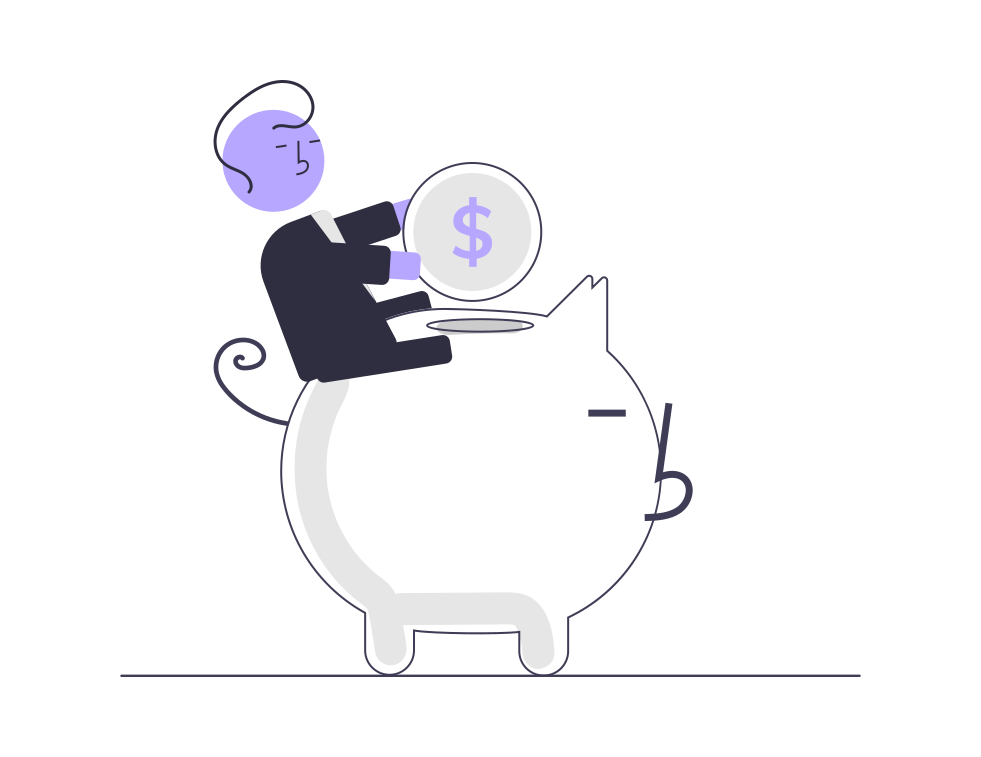
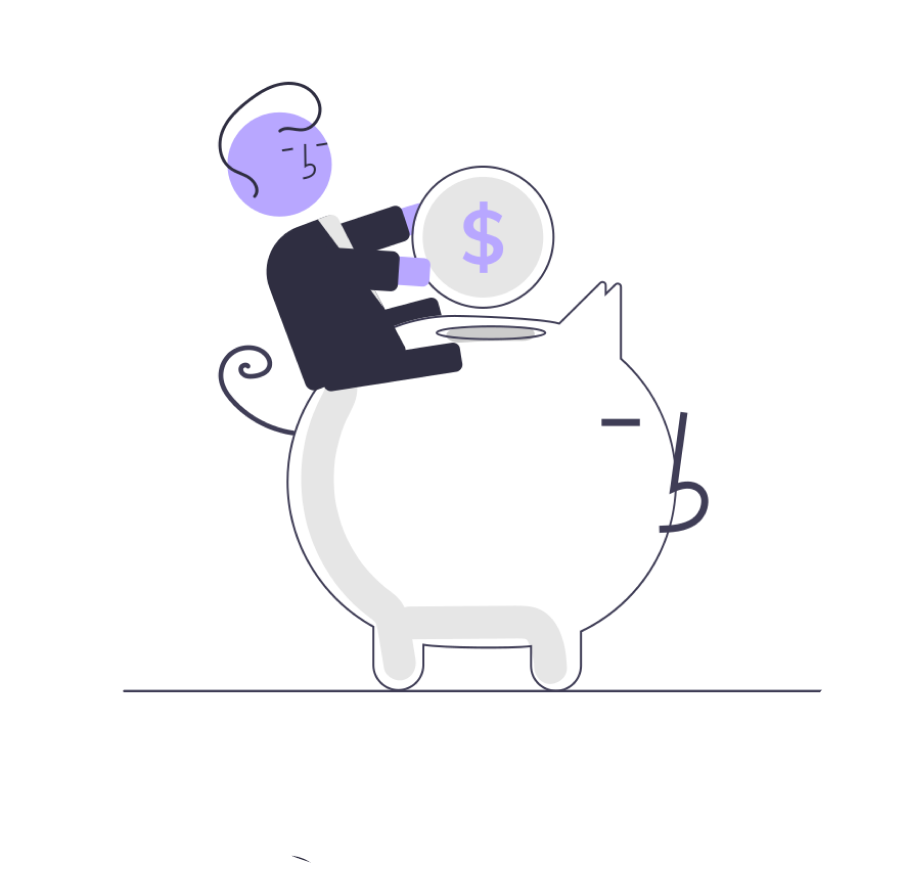
added introduction page version 2.0

diff --git a/lib/app/introduction/introduction_page.dart b/lib/app/introduction/introduction_page.dart
@@ -12,8 +12,8 @@ class IntroductionPage extends ConsumerWidget {
   PageDecoration _buildPageDecoration() {
     const boxDecoration = const BoxDecoration(
       gradient: LinearGradient(
-          begin: Alignment.topCenter,
-          end: Alignment.bottomCenter,
+          begin: Alignment.topLeft,
+          end: Alignment.bottomRight,
           colors: [
             Color(0xffB8A7FF),
             Color(0xff2196F3),
@@ -36,9 +36,7 @@ class IntroductionPage extends ConsumerWidget {
   }
 
   Widget _buildImage(String assetName, [double height = 300]) {
-    return Container(
-        child: Image.asset('images/$assetName', height: height)
-    );
+    return Container(child: Image.asset('images/$assetName', height: height));
   }
 
   @override
@@ -61,58 +59,109 @@ class IntroductionPage extends ConsumerWidget {
               pages: [
                 PageViewModel(
                     titleWidget: Text(
-                      "Добро пожаловать в\nLend Land!",
+                      "Добро пожаловать в\nLendLand!",
                       textAlign: TextAlign.center,
                       style: TextStyle(color: Colors.white, fontSize: 32),
                     ),
                     bodyWidget: Text(
-                      "Ты вступаешь в ряды настоящих легионеров, но перед этим тебе нужно неплохо так подлутаться",
+                      "Вы отваживаетесь сделать шаг в мир инвестиций - мир, полный перспективных идей, новых возможностей и весомого профита",
                       textAlign: TextAlign.center,
                       style: TextStyle(color: Colors.white, fontSize: 18),
                     ),
                     image: _buildImage('explore_circled.png'),
                     decoration: _buildPageDecoration()),
                 PageViewModel(
-                    title: "Выполняй миссии от нашего легиона",
-                    body:
-                    "Тебе будут назначаться задания, с которыми можешь справиться только ты",
-                    image: _buildImage('wallet.png'),
-                    decoration: _buildPageDecoration()),
-                PageViewModel(
-                    title: "Выполняй миссии от нашего легиона",
-                    body:
-                    "Тебе будут назначаться задания, с которыми можешь справиться только ты",
+                    titleWidget: Text(
+                      "Вы - инвестор?",
+                      textAlign: TextAlign.center,
+                      style: TextStyle(color: Colors.white, fontSize: 32),
+                    ),
+                    bodyWidget: Text(
+                      "Многим бизнесам нужно финансирование для старта. инвестируйте в них, позвольте вашим деньгам работать на вас",
+                      textAlign: TextAlign.center,
+                      style: TextStyle(color: Colors.white, fontSize: 18),
+                    ),
                     image: _buildImage('savings.png'),
                     decoration: _buildPageDecoration()),
                 PageViewModel(
-                    title: "Выполняй миссии от нашего легиона",
-                    body:
-                        "Тебе будут назначаться задания, с которыми можешь справиться только ты",
-                    image: _buildImage('analyze.png'),
+                    titleWidget: Text(
+                      "Становитесь фигурой бизнеса",
+                      textAlign: TextAlign.center,
+                      style: TextStyle(color: Colors.white, fontSize: 32),
+                    ),
+                    bodyWidget: Text(
+                      "Вы будете финансировать стартапы, бизнесы, проекты. Вы станете полноценным владельцем доли бизнеса",
+                      textAlign: TextAlign.center,
+                      style: TextStyle(color: Colors.white, fontSize: 18),
+                    ),
+                    image: _buildImage('career_ladder.png'),
                     decoration: _buildPageDecoration()),
                 PageViewModel(
-                    title: "Миссия - это злодей. Одолей его!",
-                    body:
-                        "На каждом из этих заданий тебя ждет мини-монстр или баг, ты должен его одолеть!",
-                    image: _buildImage('growth.png'),
+                    titleWidget: Text(
+                      "Оценивайте свои шансы",
+                      textAlign: TextAlign.center,
+                      style: TextStyle(color: Colors.white, fontSize: 32),
+                    ),
+                    bodyWidget: Text(
+                      "Вы будете использовать графики, чарты, цифры, чтобы предсказывать будущее!",
+                      textAlign: TextAlign.center,
+                      style: TextStyle(color: Colors.white, fontSize: 18),
+                    ),
+                    image: _buildImage('metrix.png'),
                     decoration: _buildPageDecoration()),
                 PageViewModel(
-                    title: "Не бойся, ты не один!",
-                    body:
-                        "Для решения задач тебе понадобится помощь твоих товарищей, так что вперед собирай команду!",
-                    image: _buildImage('instant_info.png'),
+                    titleWidget: Text(
+                      "Хотите продвигать свой бизнес?",
+                      textAlign: TextAlign.center,
+                      style: TextStyle(color: Colors.white, fontSize: 32),
+                    ),
+                    bodyWidget: Text(
+                      "Регистрируйте свой магазин, организацию, компанию - познакомьте ваш бизнес с другими",
+                      textAlign: TextAlign.center,
+                      style: TextStyle(color: Colors.white, fontSize: 18),
+                    ),
+                    image: _buildImage('business_shop.png'),
                     decoration: _buildPageDecoration()),
                 PageViewModel(
-                    title: "Доспехи - это твое все",
-                    body:
-                        "Победив монстра, вытащи все, что с него выпало, может пригодится)",
-                    image: _buildImage('plans.png'),
+                    titleWidget: Text(
+                      "Находите инвесторов",
+                      textAlign: TextAlign.center,
+                      style: TextStyle(color: Colors.white, fontSize: 32),
+                    ),
+                    bodyWidget: Text(
+                      "Получайте финансирование от людей, готовых поднимать вашу дефтельность вместе",
+                      textAlign: TextAlign.center,
+                      style: TextStyle(color: Colors.white, fontSize: 18),
+
+                    ),
+                    image: _buildImage('business_deal.png'),
                     decoration: _buildPageDecoration()),
                 PageViewModel(
-                    title: "Победи всех монстров\nи стань легионером!",
-                    body:
-                        "Как только ты получил свои доспехи, только тогда станешь полноценным членом легиона",
-                    image: _buildImage('progress_data.png'),
+                    titleWidget: Text(
+                      "Так выгоднее!",
+                      textAlign: TextAlign.center,
+                      style: TextStyle(color: Colors.white, fontSize: 32),
+                    ),
+                    bodyWidget: Text(
+                      "Вы получаете помощь с заинтересованных людей, принимающие риски. ",
+                      textAlign: TextAlign.center,
+                      style: TextStyle(color: Colors.white, fontSize: 18),
+                    ),
+                    image: _buildImage('discount.png'),
+                    decoration: _buildPageDecoration()),
+                PageViewModel(
+                    titleWidget: Text(
+                      "Есть идея, есть деньги - за дело!",
+                      textAlign: TextAlign.center,
+                      style: TextStyle(color: Colors.white, fontSize: 32),
+                    ),
+                    bodyWidget: Container(),
+                    // bodyWidget: Text(
+                    //   "Есть идея, есть деньги - пора работать!",
+                    //   textAlign: TextAlign.center,
+                    //   style: TextStyle(color: Colors.white, fontSize: 18),
+                    // ),
+                    image: _buildImage('powerful.png'),
                     decoration: _buildPageDecoration()),
               ],
               dotsFlex: 2,
